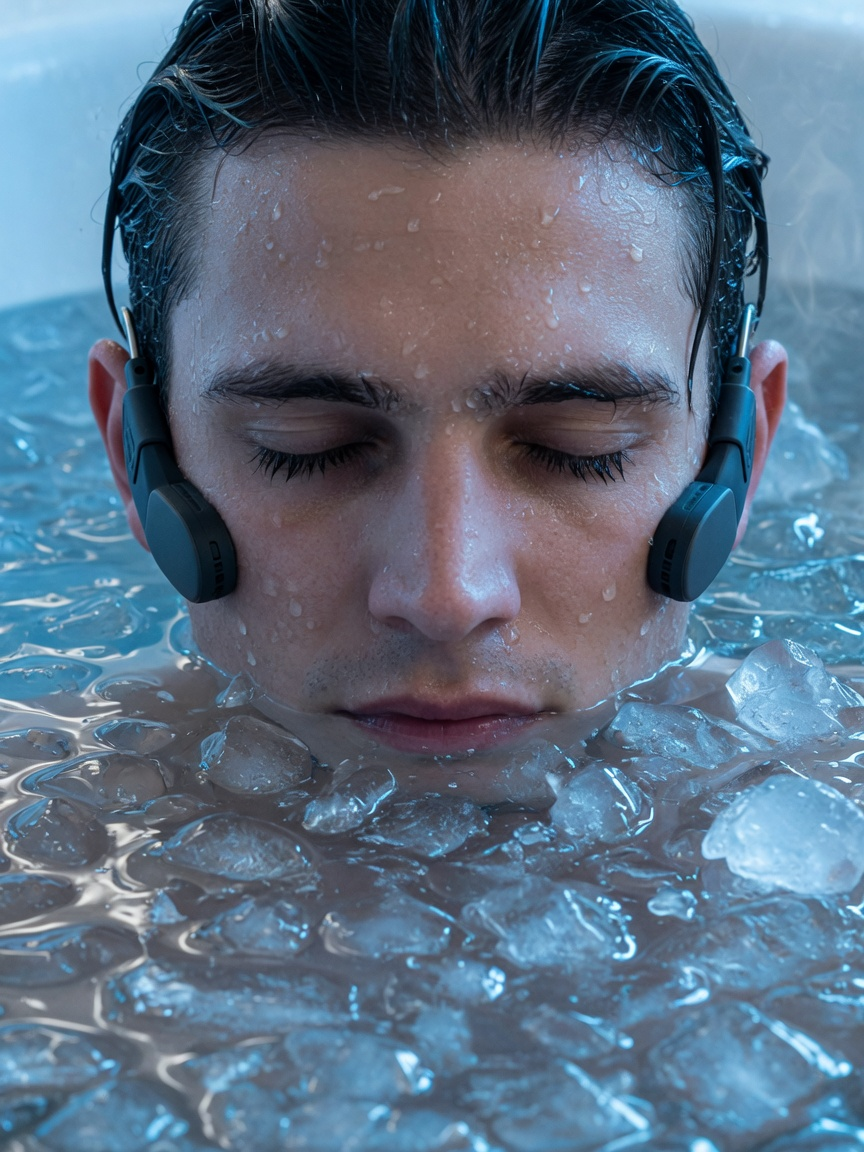
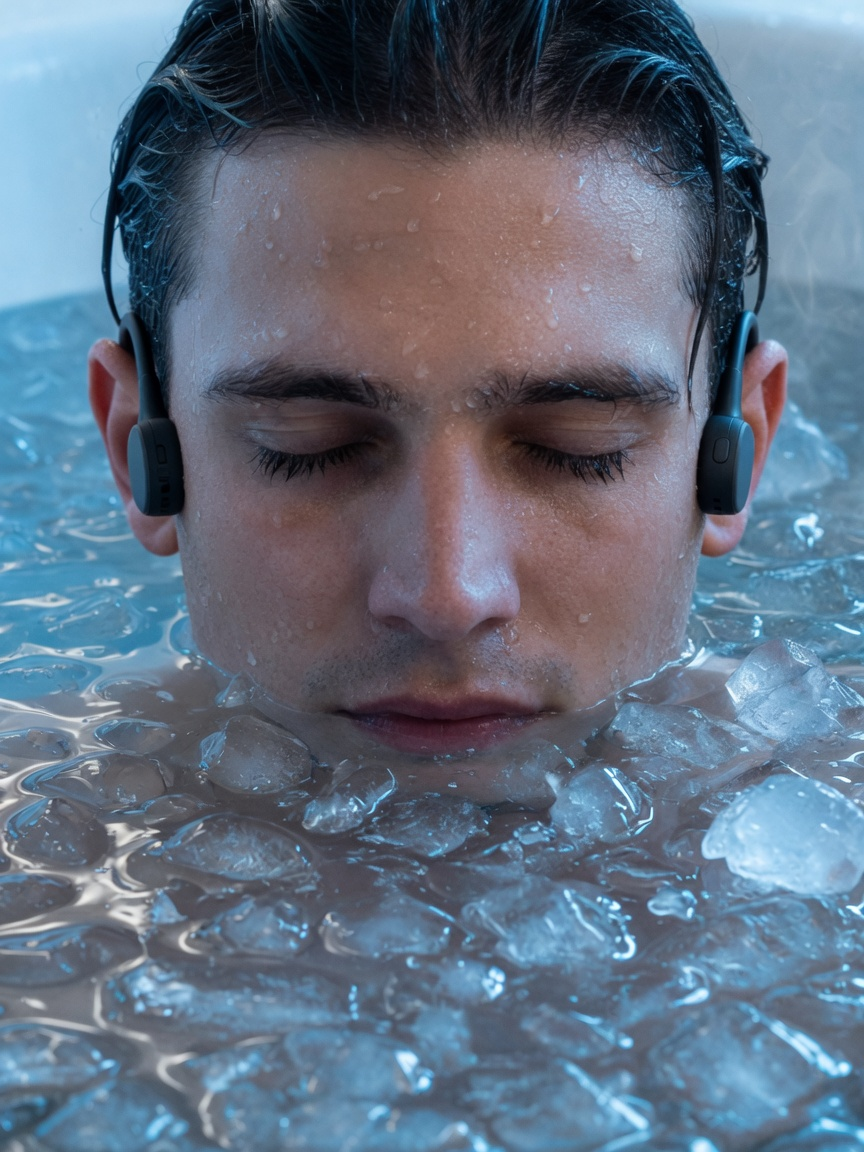
Restore the orange i-dot and correct headset placement.
The wordmark dot is ember again. Lifestyle stills and the 3D pads now sit just in front of the ear, like the reference, not on the cheek.

diff --git a/index3.html b/index3.html
@@ -134,8 +134,7 @@ a{ color:inherit; }
   width:.22em; height:.22em;
   transform:translateX(-50%);
   border-radius:50%;
-  background:var(--active-ink);
-  transition:background .4s linear;
+  background:var(--ember);
 }
 .mark--lg{ font-size:clamp(28px, 3.4vw, 42px); }
 
@@ -723,7 +722,7 @@ button[type=submit][disabled]{ opacity:.55; cursor:default; transform:none; }
   <symbol id="i-btn" viewBox="0 0 24 24"><circle cx="5.5" cy="12" r="2.2"/><circle cx="12" cy="12" r="2.2"/><circle cx="18.5" cy="12" r="2.2"/></symbol>
 </defs></svg>
 
-<canvas id="stage" role="img" aria-label="A slowly rotating three-dimensional view of the Dipsana bone conduction headset: two wedge-shaped housings, hooks that curve over the ear, and rounded pads that rest on the cheekbone. Head-worn, no neckband."></canvas>
+<canvas id="stage" role="img" aria-label="A slowly rotating three-dimensional view of the Dipsana bone conduction headset: two housings behind the ears, hooks over the ears, and transducers sitting immediately in front of the ears. Head-worn, no neckband."></canvas>
 
 <div class="rail" aria-hidden="true">
   <span class="rail-deg">110°</span>
@@ -989,7 +988,7 @@ button[type=submit][disabled]{ opacity:.55; cursor:default; transform:none; }
         </div>
         <div class="a-call a-call--l" style="top:53.5%">
           <p class="a-title"><span class="a-num">3</span> Bone conduction</p>
-          <p class="a-desc">Through the cheekbone. Nothing goes in your ear.</p>
+          <p class="a-desc">Sits just in front of the ear. Nothing goes in the canal.</p>
         </div>
         <div class="a-call a-call--r" style="top:29.0%">
           <p class="a-title"><span class="a-num">4</span> Physical buttons</p>
@@ -1184,10 +1183,10 @@ for (const side of [-1, 1]) {
 
 for (const side of [-1, 1]) {
   const pod = new THREE.Mesh(new THREE.SphereGeometry(1, 26, 18), padMat);
-  pod.scale.set(0.052, 0.104, 0.088);
-  pod.position.set(side * 0.578, -0.175, 0.520);
-  pod.rotation.z = side * 0.16;
-  pod.rotation.x = -0.22;
+  pod.scale.set(0.038, 0.072, 0.058);
+  pod.position.set(side * 0.548, 0.055, 0.355);
+  pod.rotation.z = side * 0.08;
+  pod.rotation.x = -0.08;
   inner.add(pod);
 }
 
